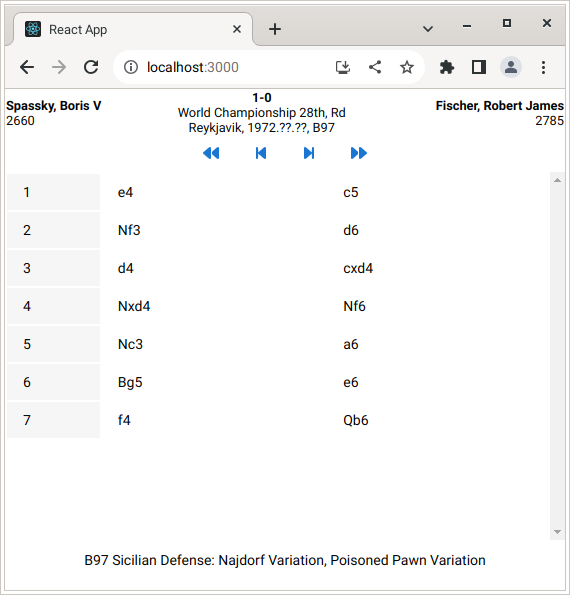
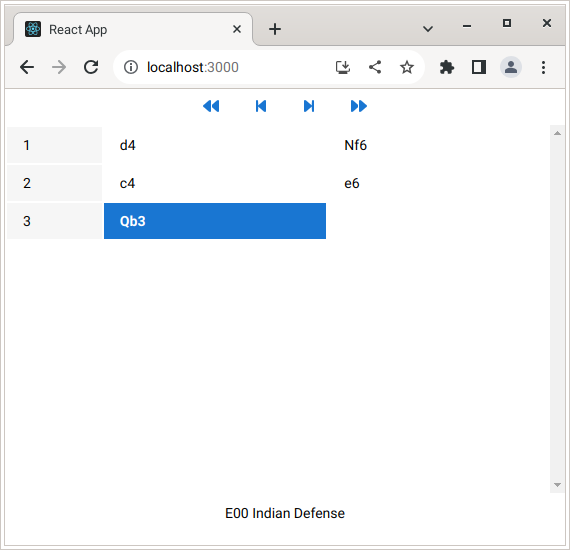
Updated the docs

diff --git a/README.md b/README.md
@@ -88,7 +88,7 @@ export default App;
 
 SAN stands for Standard Algebraic Notation. It is a human-readable text format that allows chess players to read and write chess games in Portable Game Notation (PGN) format. A SAN movetext is basically the same thing as a RAV movetext with the only difference that it doesn't include variations.
 
-A SAN Moves table can be initialized by passing the `stateBoard` prop to the `SanMovesTable` component.
+A SAN moves table can be initialized by passing the `stateBoard` prop to the `SanMovesTable` component.
 
 - `stateSanMovesTable` represents the state of the SAN moves table.
 - `onCellClick` allows to implement on cell click logic.
@@ -154,6 +154,65 @@ export default App;
 ```
 
 ![Figure 3](/assets/figure_03.png)
+
+Alternatively, the `SanMovesInline` component displays the chess moves in a single paragraph rather than in a scrollable table which may be more suitable for mobile devices.
+
+```js
+import { HistoryButtons, SanMovesInline } from '@chesslablab/reactblab';
+
+function App() {
+  const back = 0;
+
+  const fen = [
+    "rnbqkbnr/pppppppp/8/8/8/8/PPPPPPPP/RNBQKBNR w KQkq -",
+    "rnbqkbnr/pppppppp/8/8/3P4/8/PPP1PPPP/RNBQKBNR b KQkq d3",
+    "rnbqkb1r/pppppppp/5n2/8/3P4/8/PPP1PPPP/RNBQKBNR w KQkq -",
+    "rnbqkb1r/pppppppp/5n2/8/2PP4/8/PP2PPPP/RNBQKBNR b KQkq c3",
+    "rnbqkb1r/pppp1ppp/4pn2/8/2PP4/8/PP2PPPP/RNBQKBNR w KQkq -",
+    "rnbqkb1r/pppp1ppp/4pn2/8/2PP4/1Q6/PP2PPPP/RNB1KBNR b KQkq -",
+  ];
+
+  return (
+    <>
+      <HistoryButtons
+        stateHistoryButtons={{
+          back: back,
+          fen: fen,
+        }}
+        onFastRewindClick={() => {
+          // Implement on fast rewind logic.
+        }}
+        onSkipPreviousClick={() => {
+          // Implement on skip previous logic.
+        }}
+        onSkipNextClick={() => {
+          // Implement on skip next logic.
+        }}
+        onFastForwardClick={() => {
+          // Implement on fast forward logic.
+        }}
+      />
+      <SanMovesInline
+        stateSanMovesInline={{
+          back: back,
+          fen: fen,
+          movetext: "1.d4 Nf6 2.c4 e6 3.Qb3",
+        }}
+        onSpanClick={() => {
+          // Implement on cell click logic.
+        }}
+      />
+    </>
+  );
+}
+
+export default App;
+```
+
+![Figure 4](/assets/figure_04.png)
+
+
+#### Display the Name of the Chess Opening Being Played
 
 Also you may want to display the chess opening that is being played at a certain point in which case the `OpeningTable` component can be helpful.
 
@@ -231,9 +290,45 @@ function App() {
 export default App;
 ```
 
-![Figure 4](/assets/figure_04.png)
+![Figure 5](/assets/figure_05.png)
 
-The same thing goes for the `MovesMetadataTable` which can be used to display data about a particular game as it is shown in the following example.
+#### Encyclopedia of Chess Openings (ECO)
+
+Chess openings can easily be imported into your app as an array of JavaScript objects.
+
+```js
+import { openings } from '@chesslablab/reactblab';
+```
+
+```js
+[
+  {
+    "eco": "A00",
+    "name": "Amar Gambit",
+    "movetext": "1.Nh3 d5 2.g3 e5 3.f4 Bxh3 4.Bxh3 exf4"
+  },
+  {
+    "eco": "A00",
+    "name": "Amar Opening",
+    "movetext": "1.Nh3"
+  },
+  ...
+  {
+    "eco": "E99",
+    "name": "King's Indian Defense: Orthodox Variation, Classical System, Benko Attack",
+    "movetext": "1.d4 Nf6 2.c4 g6 3.Nc3 Bg7 4.e4 d6 5.Nf3 O-O 6.Be2 e5 7.O-O Nc6 8.d5 Ne7 9.Ne1 Nd7 10.f3 f5 11.g4"
+  },
+  {
+    "eco": "E99",
+    "name": "King's Indian Defense: Orthodox Variation, Classical System, Traditional Line",
+    "movetext": "1.d4 Nf6 2.c4 g6 3.Nc3 Bg7 4.e4 d6 5.Nf3 O-O 6.Be2 e5 7.O-O Nc6 8.d5 Ne7 9.Ne1 Nd7 10.f3 f5"
+  }
+];
+```
+
+#### Display Metadata About the Chess Game Being Played
+
+Descriptive metadata or metainformation is data that describes other data. The `MovesMetadataTable` component can be used to display data about a particular game as it is shown in the following example.
 
 ```js
 import {
@@ -337,7 +432,7 @@ function App() {
 export default App;
 ```
 
-![Figure 5](/assets/figure_05.png)
+![Figure 6](/assets/figure_06.png)
 
 #### Initialize a RAV Moves Table
 
@@ -452,43 +547,9 @@ function App() {
 export default App;
 ```
 
-![Figure 6](/assets/figure_06.png)
+![Figure 7](/assets/figure_07.png)
 
 The RAV reader displays the variation levels in different shades of gray. It is a 2D scrollable HTML table where the main line is shown in a white background color. The deeper the level, the darker the background color is displayed.
-
-#### Encyclopedia of Chess Openings (ECO)
-
-Chess openings can easily be imported into your app as an array of JavaScript objects.
-
-```js
-import { openings } from '@chesslablab/reactblab';
-```
-
-```js
-[
-  {
-    "eco": "A00",
-    "name": "Amar Gambit",
-    "movetext": "1.Nh3 d5 2.g3 e5 3.f4 Bxh3 4.Bxh3 exf4"
-  },
-  {
-    "eco": "A00",
-    "name": "Amar Opening",
-    "movetext": "1.Nh3"
-  },
-  ...
-  {
-    "eco": "E99",
-    "name": "King's Indian Defense: Orthodox Variation, Classical System, Benko Attack",
-    "movetext": "1.d4 Nf6 2.c4 g6 3.Nc3 Bg7 4.e4 d6 5.Nf3 O-O 6.Be2 e5 7.O-O Nc6 8.d5 Ne7 9.Ne1 Nd7 10.f3 f5 11.g4"
-  },
-  {
-    "eco": "E99",
-    "name": "King's Indian Defense: Orthodox Variation, Classical System, Traditional Line",
-    "movetext": "1.d4 Nf6 2.c4 g6 3.Nc3 Bg7 4.e4 d6 5.Nf3 O-O 6.Be2 e5 7.O-O Nc6 8.d5 Ne7 9.Ne1 Nd7 10.f3 f5"
-  }
-];
-```
 
 ### Contributions
 
